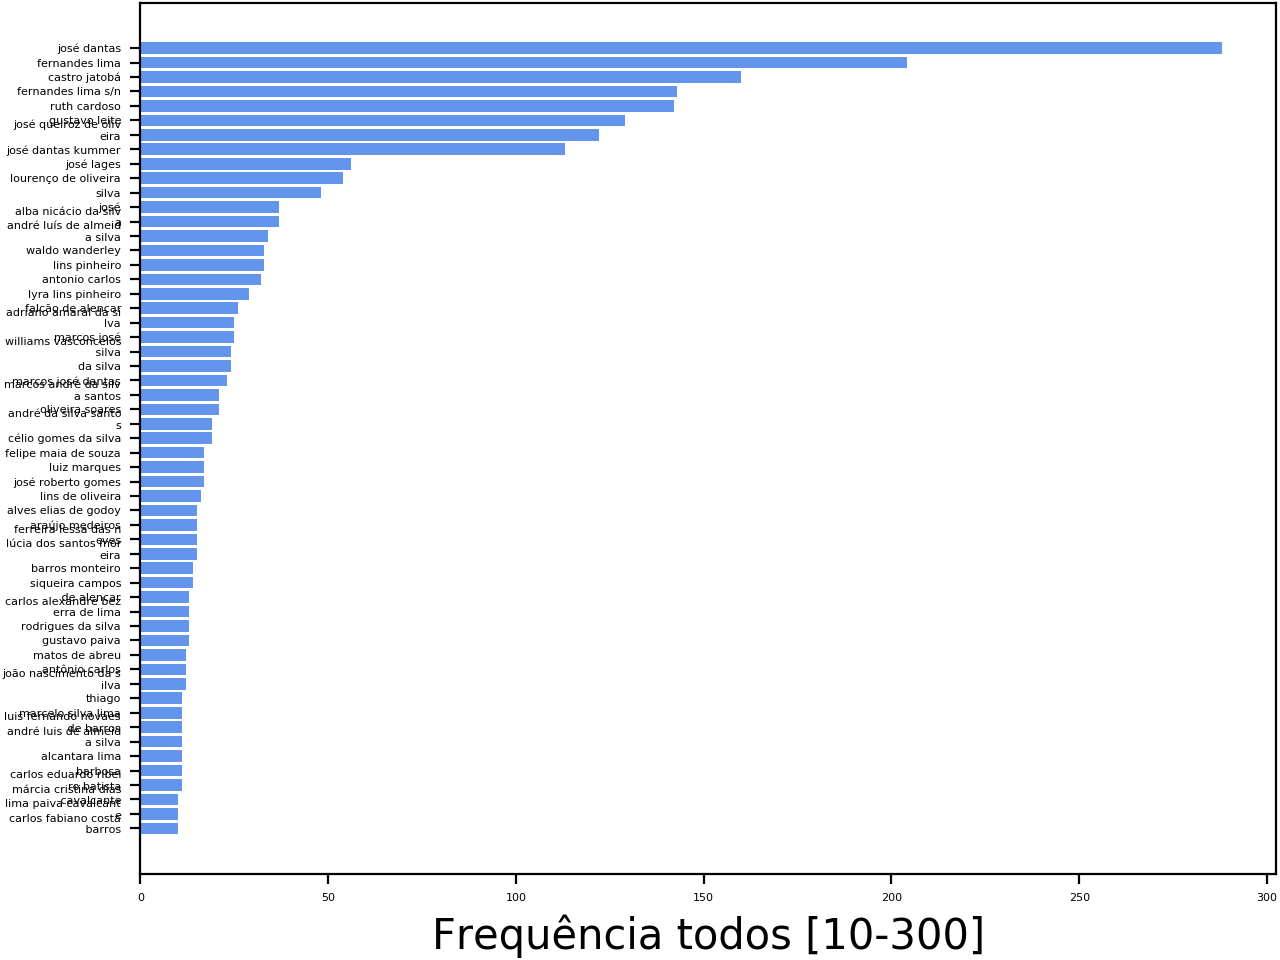
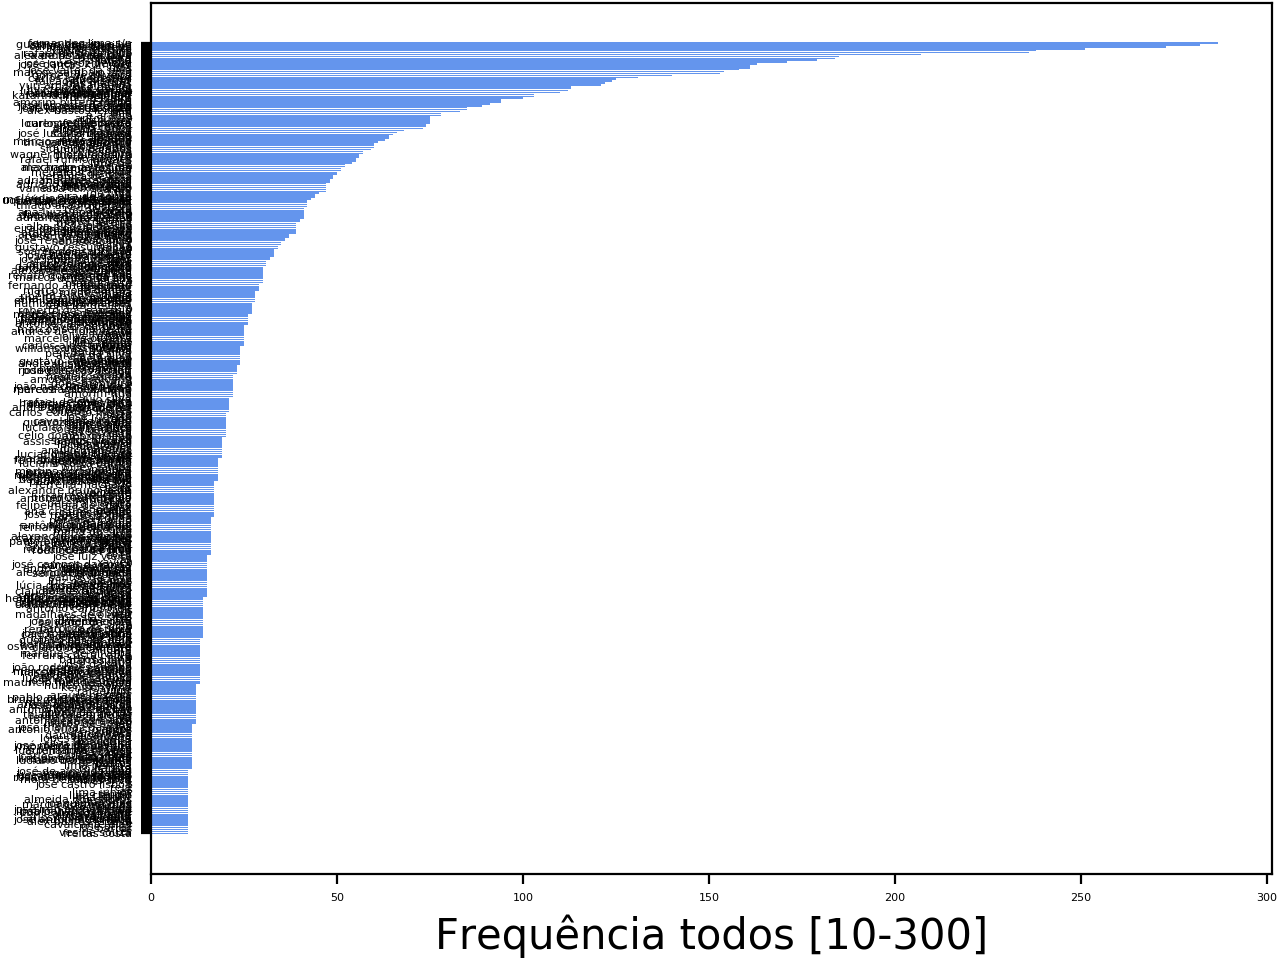
Added the plots for TODOS

diff --git a/src/main.py b/src/main.py
@@ -34,7 +34,7 @@ def plot_all(entity_classes, year_label):
                         print('\n')
                         print(str(c)+' '+str(y))
                         filter_results.plot_entityFreq(y[0],entity_class=c,min_freq=20,max_freq=200,custom_name = y[1])
-                        #WHen the min_freq == 1 sometimes the NLP framework catchs a scape word inside the text and goes savage
+                        #WHen the min_freq == 1 sometimes the NLP framework catchs a scape word inside the text and goes wild
                         try:
                                 filter_results.plot_entityFreq(y[0],entity_class=c,min_freq=1,max_freq=10,custom_name = y[1])
                                 filter_results.plot_entityFreq(y[0],entity_class=c,min_freq=1,max_freq=2,custom_name = y[1])
@@ -45,4 +45,4 @@ def plot_all(entity_classes, year_label):
                         filter_results.plot_entityFreq(y[0],entity_class=c,min_freq=10,max_freq=300,custom_name = y[1])
                         filter_results.plot_entityFreq(y[0],entity_class=c,min_freq=150,max_freq=350,custom_name = y[1])
 
-plot_all(entity_classes,[[f2017,"2017"]])
+plot_all(entity_classes,[[geral,"todos"]])
